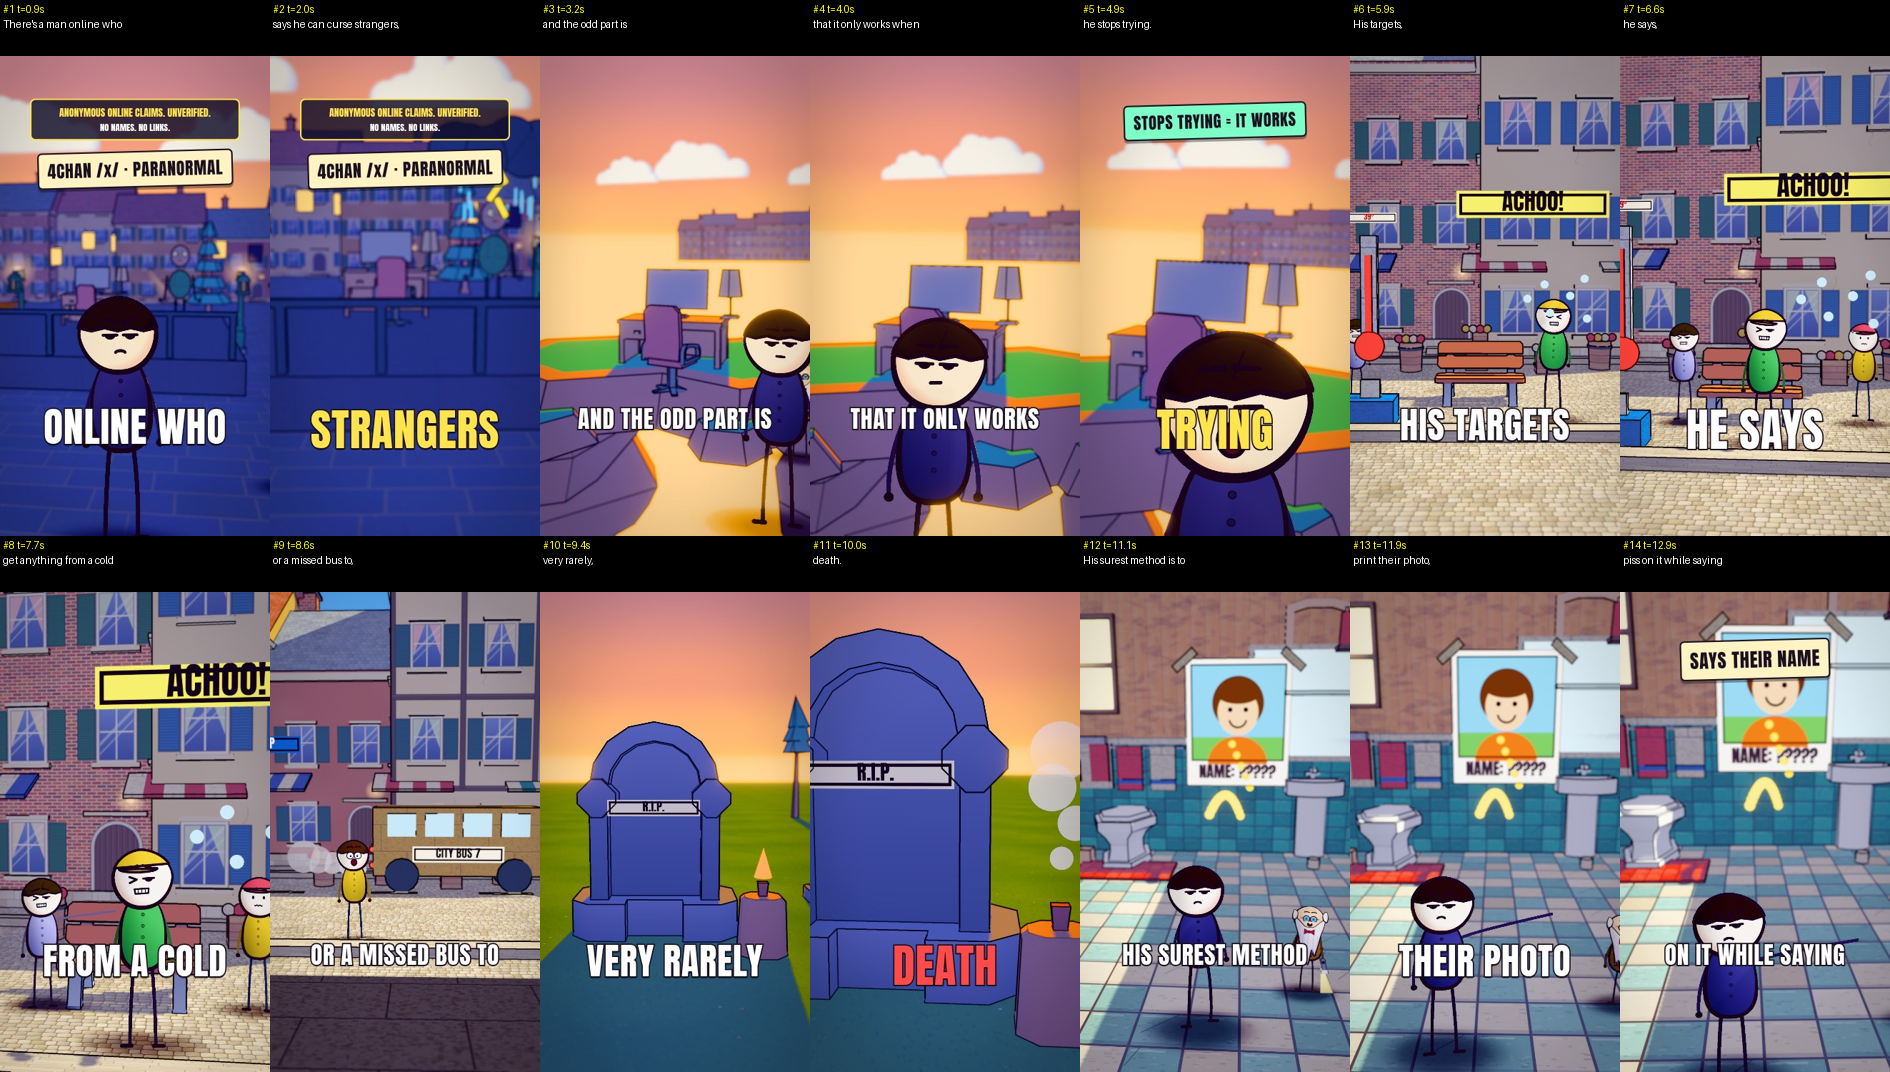
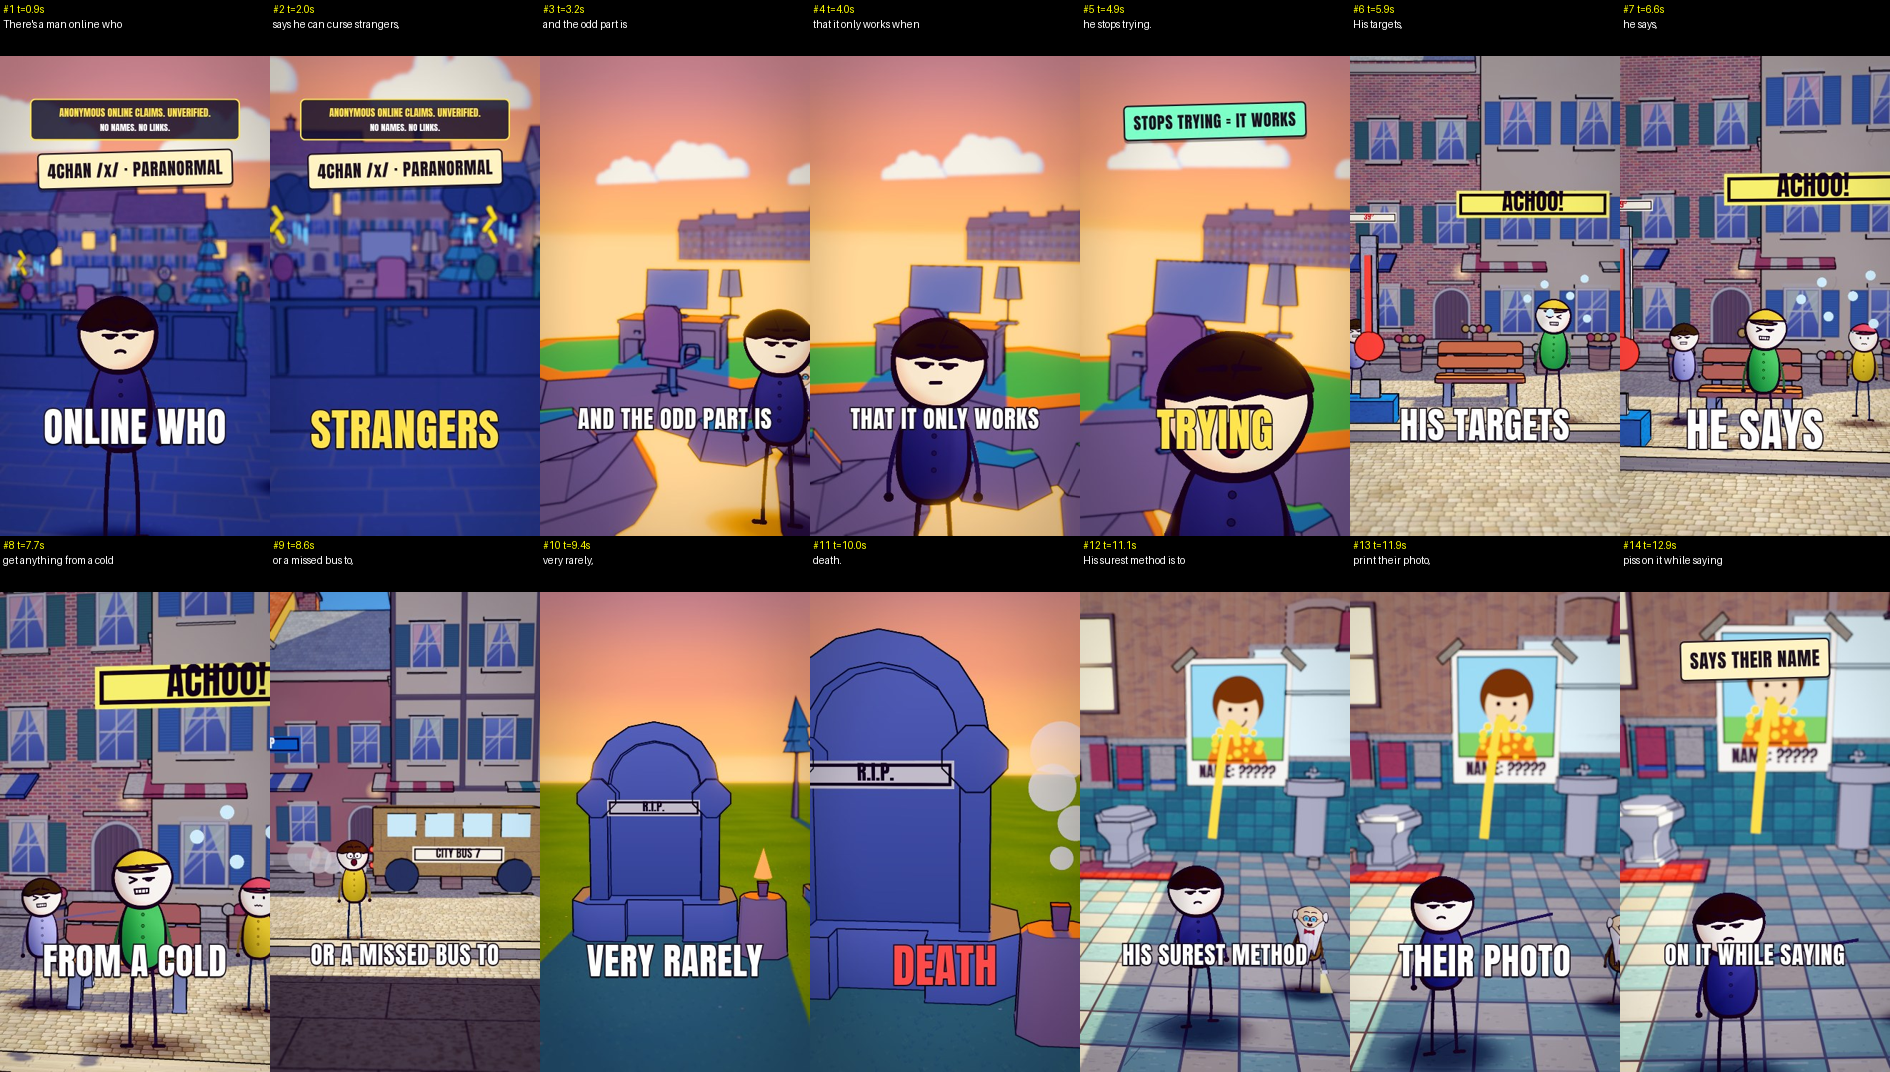
Fix remaining audit fails: clear stream, curse on strangers, Walter Cannon look, range signs

diff --git a/src/videos/gloom/ep01w/worlds4.ts b/src/videos/gloom/ep01w/worlds4.ts
@@ -95,7 +95,7 @@ export const W4: Record<string, (R: R) => void> = {
     const roof = new THREE.Group(); roof.add(box(9, 0.8, 7, lam("#5a4a6a"), 0, -0.4, 0)); for (let x = -4.2; x <= 4.2; x += 1.4) roof.add(box(0.15, 1.0, 0.15, lam("#2a2a3a"), x, 0.5, 3.3)); roof.add(box(8.6, 0.12, 0.15, lam("#2a2a3a"), 0, 1.0, 3.3)); place(roof, 0, 0, -4); R.add(roof);
     add(R, at(kit("furniture", "desk", 1.0), 0, 0, -5.6), at(kit("furniture", "computerScreen", 0.9), 0, 1.0, -5.7), at(kit("furniture", "computerKeyboard", 0.08), 0, 1.0, -5.2), at(kit("furniture", "chairDesk", 1.4), 0.2, 0, -4.4, 2.9), at(kit("furniture", "lampRoundTable", 0.9), 1.0, 1.0, -5.8), at(kit("furniture", "pottedPlant", 1.2), -3.4, 0, -5.4));
     /*fig*/
-    { const v = person("#58b868", 1.5); place(v, 2.9, -0.4, -8.2); R.add(v); curseCloud(R, 2.9, 4.0, -8.2, 1.15, 0.35); }
+    for (const [x, c, rv] of [[-2.5, "#d85a6a", 0.25], [2.4, "#58b868", 0.4]] as const) { const v = person(c, 0.95); place(v, x, 0, -6.4); R.add(v); curseCloud(R, x, 2.7, -6.4, 0.7, rv); }
     nightSky(R); cloudsAt(R, 55, "#4a3a9a");
   },
   // line 1b: "it only works when he stops trying": the anon on a floating island, thought bubbles popping, the beam getting stronger
@@ -187,10 +187,12 @@ export const W4: Record<string, (R: R) => void> = {
       g.strokeStyle = "#1a1020"; g.lineWidth = 4; g.strokeRect(16, 16, 238, 236); g.fillStyle = "#4a3a4a"; g.font = "bold 40px Anton"; g.textAlign = "center"; g.fillText("NAME: ?????", 135, 298); }) }));
     ph.position.set(0.5, 3.5, -5.5); R.add(ph); for (const [x, r] of [[-0.85, 0.7], [1.85, -0.7]] as const) { const t = box(0.7, 0.22, 0.04, lam("#e8d9a0"), x, 5.05, -5.46); t.rotation.z = r; R.add(t); }
     /*fig*/
-    for (let i = 0; i < 18; i++) { const t = i / 17, dr = sphere(0.1, MB("#ffe04a", 1.7), -0.1 + 0.7 * t, 1.5 + 1.6 * t - 2.0 * t * t, -3.6 - 1.9 * t); noink(dr); R.add(dr); }
-    for (let i = 0; i < 5; i++) { const dr = sphere(0.09, MB("#ffe04a", 1.5), 0.6 + (i - 2) * 0.12, 3.0 - i * 0.28, -5.45); noink(dr); R.add(dr); }
     R.add(box(3.2, 2.6, 0.12, MB("#cfe8f0", 1.1), 2.5, 4.0, -5.75)); R.add(box(3.5, 2.9, 0.1, lam("#f4ead2"), 2.5, 4.0, -5.8)); R.add(box(1.4, 1.2, 0.1, lam("#f4ead2"), -3.6, 2.4, -5.7)); R.add(box(1.2, 0.2, 0.2, lam("#c8c8d8"), -3.6, 3.1, -5.6)); for (const q of [-0.4, 0.4]) R.add(box(0.5, 1.0, 0.08, lam("#e8453c"), -3.6 + q, 2.5, -5.55));
     R.add(P.at(P.lampDesk("#ff9a7a"), 4.2, 3.0, -5.6));
+    // one unbroken yellow stream from him up to the photo, splashing off it
+    { const curve = new THREE.QuadraticBezierCurve3(new THREE.Vector3(0.0, 1.1, -3.0), new THREE.Vector3(0.3, 4.6, -4.2), new THREE.Vector3(0.5, 3.0, -5.42));
+      const st = new THREE.Mesh(new THREE.TubeGeometry(curve, 48, 0.085, 10), MB("#ffd21a", 1.35)); noink(st); R.add(st);
+      for (let i = 0; i < 16; i++) { const a = (i / 16) * Math.PI * 2, rr = 0.25 + rnd(i) * 0.4, d = sphere(0.05 + rnd(i + 3) * 0.05, MB("#ffd21a", 1.3), 0.5 + Math.cos(a) * rr, 3.0 + Math.sin(a) * rr * 0.7, -5.38); noink(d); R.add(d); } }
   },
   // line 4: "ran it like a lab: forty targets, each matched with a control, coded in advance": 40 targets and 40 controls under glass domes, coded tags
   labForty(R) {

diff --git a/src/videos/gloom/ep01w/worlds.ts b/src/videos/gloom/ep01w/worlds.ts
@@ -183,10 +183,10 @@ export const W: Record<string, (R: R) => void> = {
     for (let i = 0; i < 5; i++) { const c = new THREE.Mesh(new THREE.SphereGeometry(60, 12, 8), lam(["#2a2a5a", "#1e2050", "#34346a"][i % 3])); c.scale.set(2.2, 0.6, 1); c.position.set(-300 + i * 160, 160 + rnd(i) * 60, -700 - rnd(i + 4) * 300); noink(c); R.add(c); }
     for (let i = 0; i < 24; i++) { const x = (i % 2 ? 7 : -7) + rnd(i) * 2; R.add(P.at(P.tree(i % 3 ? "cone" : "dead", 5 + rnd(i + 3) * 4, "#1f5a4a", "#2a2030"), x, 0, -12 - i * 14)); }
     for (let i = 0; i < 10; i++) { const pd = plane(3 + rnd(i) * 3, 1.4, new THREE.MeshBasicMaterial({ color: "#6a8ad8", transparent: true, opacity: 0.55 })); pd.rotation.x = -Math.PI / 2; pd.position.set(-2 + rnd(i + 4) * 4, 0.03, -3 - i * 5); R.add(pd); }
-    R.add(place(sign(textTex(512, 256, "#e8e0c8", "#1a1830", ["1000 m"], "Anton", 140, "#b02a3e"), 2.4, 1.2, 1.0), 3.4, 2.2, -8));
+    { const s1 = place(sign(textTex(512, 256, "#e8e0c8", "#1a1830", ["1000 m"], "Anton", 140, "#b02a3e"), 2.4, 1.2, 1.0), 3.4, 2.2, -8) as any; s1.userData.rv = 2; R.add(s1); }
     R.add(box(0.12, 2.2, 0.12, lam("#3a2a24"), 3.4, 1.1, -8.05));
-    { const tt = new THREE.Group(); tt.add(box(0.5, 7, 0.5, lam("#4a3a2a"), 0, 3.5, 0)); for (const [rr, cc] of [[4.6, "#f2eadc"], [3.2, "#e8453c"], [1.9, "#f2eadc"], [0.8, "#e8453c"]] as [number, string][]) { const d = cyl(rr, rr, 0.3, new THREE.MeshBasicMaterial({ color: cc }), 0, 7.4, 0.05, 28); d.rotation.x = Math.PI / 2; tt.add(d); } place(tt, 1.2, 0, -120); R.add(tt); glowAt(R, 1.2, 7.4, -119, 16, "#ff3a2a"); R.add(place(sign(textTex(256, 128, "#e8e0c8", "#1a1830", ["1 m"], "Anton", 100, "#b02a3e"), 5, 2.5, 1.0), -3.6, 8.0, -119)); }
-    R.add(place(sign(textTex(512, 256, "#e8e0c8", "#1a1830", ["1000 m"], "Anton", 140, "#b02a3e"), 1.5, 0.75, 1.0), -2.2, 1.9, -12)); R.add(box(0.1, 1.9, 0.1, lam("#3a2a24"), -2.2, 0.95, -12.05));
+    { const tt = new THREE.Group(); tt.add(box(0.5, 7, 0.5, lam("#4a3a2a"), 0, 3.5, 0)); for (const [rr, cc] of [[4.6, "#f2eadc"], [3.2, "#e8453c"], [1.9, "#f2eadc"], [0.8, "#e8453c"]] as [number, string][]) { const d = cyl(rr, rr, 0.3, new THREE.MeshBasicMaterial({ color: cc }), 0, 7.4, 0.05, 28); d.rotation.x = Math.PI / 2; tt.add(d); } place(tt, 1.2, 0, -120); R.add(tt); glowAt(R, 1.2, 7.4, -119, 16, "#ff3a2a");  }
+
     const bc = P.glowSprite("#ff3a2a", 90); bc.position.set(0, 14, -990); R.add(bc);
     const rf = new THREE.Group(); rf.add(box(0.1, 0.12, 2.4, lam("#2a2a32"), 0, 0.1, 0)); rf.add(box(0.14, 0.2, 0.9, lam("#5a3a24"), 0, 0.05, 1.5)); rf.add(cyl(0.07, 0.07, 0.6, lam("#1a1a22"), 0, 0.28, 0.3, 10)); (rf.children[2] as THREE.Object3D).rotation.x = Math.PI / 2; place(rf, 0.6, 0.98, -2.2); R.add(rf);
     for (let i = 0; i < 12; i++) { const cl = P.glowSprite("#2a2a5a", 90 + rnd(i) * 50); cl.position.set(-120 + i * 22, 70 + rnd(i + 2) * 30, -300 - rnd(i + 3) * 200); R.add(cl); }

diff --git a/src/videos/gloom/ep01w/beats4.tsx b/src/videos/gloom/ep01w/beats4.tsx
@@ -45,7 +45,7 @@ export const SHOTS4: Shot3[] = [
   { id: "S13", scatter: "out", line: "You see, belief is powerful. Ever been so scared you froze?", world: "graveyardPath", light: "night", caption: "SO SCARED", cInf: 10,
     keys: [k(0, [-1.2, 2.2, 2.4], [0.4, 1.6, -10], 54), k(1, [-0.6, 2.0, -2.2], [0.4, 1.8, -10], 44, { du: 0.8 })], cast: [{ rel: [4.0, 0.15], s: 1.1, fig: { outfit: "frozen", expr: "shock", wave: 50 } }, g(5.0, -1.6, 0.75, { point: 130, expr: "nervous" })] },
   { id: "S14", scatter: "in", line: "In 1942, Walter Cannon argued a curse can kill through fear alone.", world: "lab", light: "day", caption: "FEAR ALONE", cInf: 11,
-    keys: [k(0, [0.4, 2.1, 3.6], [0.8, 1.6, -5], 48), k(1, [0.5, 2.0, 0.8], [1.0, 1.5, -5], 40, { du: 0.8, roll: -0.05 })], cast: [{ rel: [3.8, 0.5], s: 1.0, fig: { outfit: "volunteer", expr: "nervous", wave: 50 } }, g(4.0, -1.5, 0.7, { point: 35, expr: "shock", beam: 1.2 })] },
+    keys: [k(0, [0.4, 2.1, 3.6], [0.8, 1.6, -5], 48), k(1, [0.5, 2.0, 0.8], [1.0, 1.5, -5], 40, { du: 0.8, roll: -0.05 })], cast: [{ rel: [4.8, 0.3], s: 0.95, fig: { outfit: "cannon", expr: "stern", wave: 45 } }] },
   { id: "S15", scatter: "in", line: "He said it only worked when he stopped trying. Now he's stopped everything, and nobody can say which kind of silence that is.", world: "islandEmpty", light: "night", dim: 0.4, caption: "WHICH SILENCE", cInf: 4,
     keys: [k(0, [2.6, 2.4, 2.6], [0, 1.8, -6], 50), k(0.34, [-0.2, 2.4, -1.6], [-0.7, 1.5, -5.4], 42, { du: 0.1 }), k(0.66, [-4.2, 4.6, 0.6], [0.4, 1.0, -6], 52, { du: 0.12, roll: -0.04 }), k(1, [-1.4, 5.2, 5], [0.2, 0.9, -6.4], 58, { du: 0.3 })], cast: [{ x: -0.95, z: -5.1, s: 0.95, fig: { outfit: "anon", expr: "smile_closed" } }] },
 ];

diff --git a/src/videos/gloom/ep01w/beats3.tsx b/src/videos/gloom/ep01w/beats3.tsx
@@ -22,6 +22,7 @@ export const OUTFITS: Record<string, Outfit> = {
   green: { jacket: "#58b868", pants: "#3a3a52", boots: "#241726", hat: "cap", cap: "#e8c24a", skin: "#fbf7ee", build: "adult" },
   runner: { jacket: "#e8c24a", pants: "#3a5a8a", boots: "#f4f1ea", hat: "hair", hair: "#4a2a1a", skin: "#fbf7ee", build: "adult" },
   frozen: { jacket: "#e8c24a", pants: "#3a5a8a", boots: "#241726", hat: "cap", cap: "#d85a6a", skin: "#fbf7ee", build: "adult" },
+  cannon: { jacket: "#f4f2ea", pants: "#4a4a5a", boots: "#241726", hat: "hair", hair: "#b8b8c0", skin: "#fbf7ee", build: "adult", glasses: true, moustache: "#9a9aa4", bow: "#a01828", lapel: "#d8d4c8" },
   volunteer: { jacket: "#a8a8e8", pants: "#4a4a6a", boots: "#241726", hat: "hair", hair: "#3a2a1a", skin: "#fbf7ee", build: "adult" },
 };
 export const ALLW: Record<string, (R: THREE.Group) => void> = { ...W, ...W2, ...W3 };
